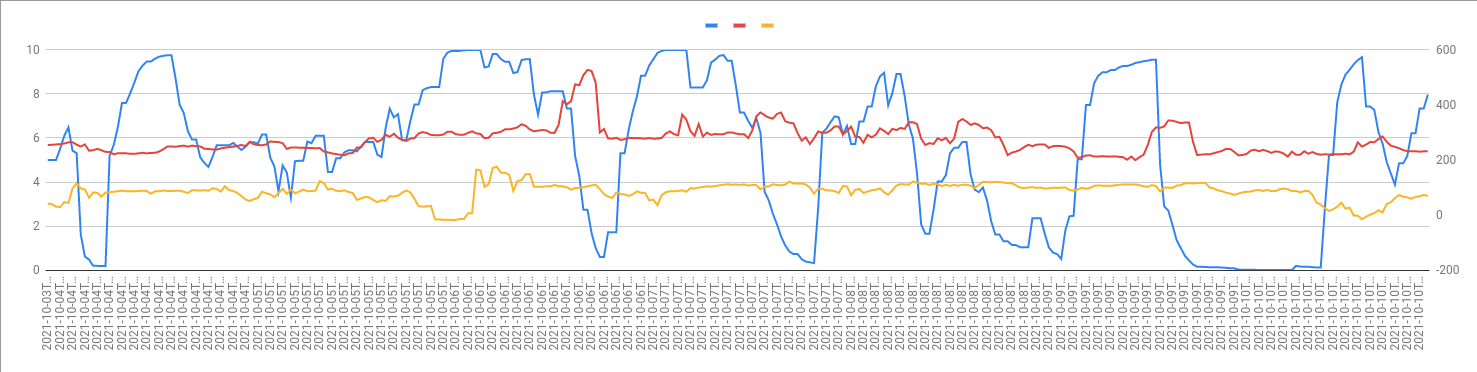
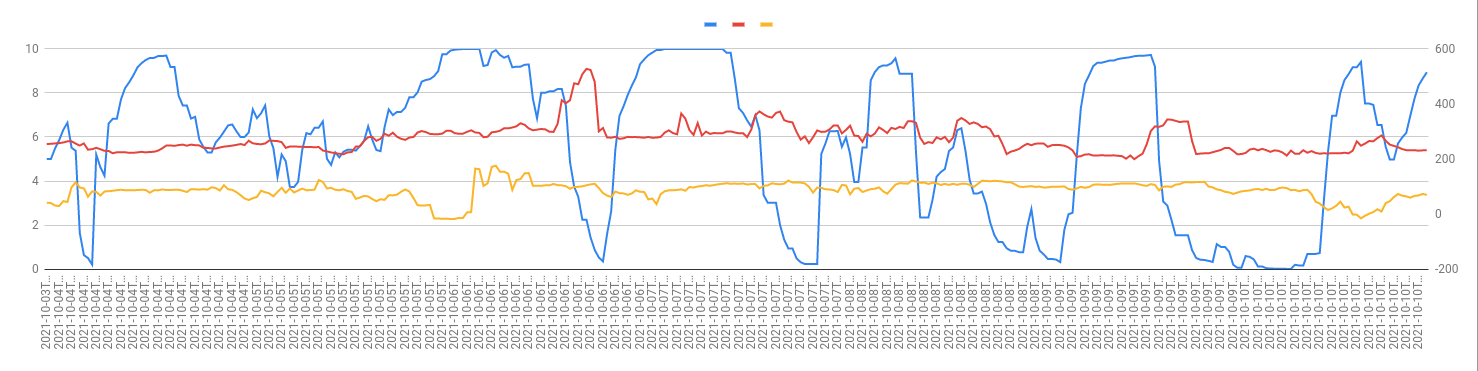
fix algorithm

diff --git a/services/optimiser/src/logic.ts b/services/optimiser/src/logic.ts
@@ -1,4 +1,4 @@
-import {addHours, isBefore, startOfDay} from 'date-fns';
+import {addHours, isBefore, startOfDay, isSameDay} from 'date-fns';
 import * as battery from './api/battery';
 import * as market from './api/market';
 import * as predictions from './api/predictions';
@@ -32,16 +32,18 @@ export const step = async (simStart: Date, time: Date) => {
   const nextPeriod = addHours(time, 1);
   const nextPeriodPrices = predictedPrices[nextPeriod.toISOString()]!;
 
-  const throughputForPeriodDay = await battery.getThroughputBetween(
+  const throughputOnDayOfNextPeriod = await battery.getThroughputBetween(
     startOfDay(nextPeriod),
     nextPeriod,
   );
 
-  const futureObligations = await obligationsDb.getNextObligations(time);
+  const futureObligations = await obligationsDb.getFutureObligations(time);
   const obligatedSoc = calcFutureBatteryState(batterySoc, futureObligations);
-  const obligatedThroughput = calcObglibatedThroughput(
-    throughputForPeriodDay,
-    futureObligations,
+  const obligatedThroughputOnDayOfPeriod = calcObglibatedThroughput(
+    throughputOnDayOfNextPeriod,
+    futureObligations.filter((obligation) =>
+      isSameDay(obligation.settlementPeriodStartDate, nextPeriod),
+    ),
   );
 
   const nextCharge = calculateDesiredVolumeChangeForPeriod(
@@ -49,7 +51,7 @@ export const step = async (simStart: Date, time: Date) => {
     obligatedSoc,
     predictedPrices,
     nextPeriodPrices,
-    obligatedThroughput,
+    obligatedThroughputOnDayOfPeriod,
   );
 
   const offer =
@@ -81,7 +83,8 @@ export const step = async (simStart: Date, time: Date) => {
   });
 
   if (succesfulSubmission) {
-    await obligationsDb.recordObligation(nextPeriod, {
+    await obligationsDb.recordObligation({
+      settlementPeriodStartDate: nextPeriod,
       type: nextCharge > 0 ? 'charge' : 'discharge',
       volume: Math.abs(nextCharge),
     });

diff --git a/services/optimiser/src/db/obligations.spec.ts b/services/optimiser/src/db/obligations.spec.ts
@@ -1,14 +1,19 @@
 import {
-  getNextObligations,
+  getFutureObligations,
   getObligation,
   recordObligation,
 } from './obligations';
 
 describe('Obligations DB', () => {
   it('should return any recorded obligations for the given settlement period', async () => {
-    await recordObligation(new Date(1), {type: 'charge', volume: 5});
+    await recordObligation({
+      settlementPeriodStartDate: new Date(1),
+      type: 'charge',
+      volume: 5,
+    });
 
     await expect(getObligation(new Date(1))).resolves.toEqual({
+      settlementPeriodStartDate: new Date(1),
       type: 'charge',
       volume: 5,
     });
@@ -17,13 +22,25 @@ describe('Obligations DB', () => {
   });
 
   it('should return the future obligations given the current settlement period', async () => {
-    await recordObligation(new Date(3), {type: 'charge', volume: 3.4});
-    await recordObligation(new Date(4), {type: 'charge', volume: 5});
-    await recordObligation(new Date(5), {type: 'discharge', volume: 10});
+    await recordObligation({
+      settlementPeriodStartDate: new Date(3),
+      type: 'charge',
+      volume: 3.4,
+    });
+    await recordObligation({
+      settlementPeriodStartDate: new Date(4),
+      type: 'charge',
+      volume: 5,
+    });
+    await recordObligation({
+      settlementPeriodStartDate: new Date(5),
+      type: 'discharge',
+      volume: 10,
+    });
 
-    await expect(getNextObligations(new Date(3))).resolves.toEqual([
-      {type: 'charge', volume: 5},
-      {type: 'discharge', volume: 10},
+    await expect(getFutureObligations(new Date(3))).resolves.toEqual([
+      {settlementPeriodStartDate: new Date(4), type: 'charge', volume: 5},
+      {settlementPeriodStartDate: new Date(5), type: 'discharge', volume: 10},
     ]);
   });
 });

diff --git a/services/optimiser/src/db/obligations.ts b/services/optimiser/src/db/obligations.ts
@@ -4,30 +4,35 @@
  **/
 
 // We are going to assume it's not possible for us to both charge and discharge in a given period
-export type Obligation = {type: 'charge' | 'discharge'; volume: number};
+export type Obligation = {
+  settlementPeriodStartDate: Date;
+  type: 'charge' | 'discharge';
+  volume: number;
+};
 
-const obligations: Array<{period: Date; obligation: Obligation | undefined}> =
-  [];
+const obligations: Obligation[] = [];
 
 export const recordObligation = async (
-  settlementPeriodStartDate: Date,
   obligation: Obligation,
 ): Promise<void> => {
-  obligations.push({period: settlementPeriodStartDate, obligation});
+  obligations.push(obligation);
 };
 
 export const getObligation = async (
   settlementPeriodStartDate: Date,
 ): Promise<Obligation | undefined> => {
   return obligations.find(
-    ({period}) => period.getTime() === settlementPeriodStartDate.getTime(),
-  )?.obligation;
+    (obligation) =>
+      obligation.settlementPeriodStartDate.getTime() ===
+      settlementPeriodStartDate.getTime(),
+  );
 };
 
-export const getNextObligations = async (from: Date): Promise<Obligation[]> => {
-  return obligations
-    .filter(
-      ({period, obligation}) => obligation && period.getTime() > from.getTime(),
-    )
-    .map(({obligation}) => obligation) as Obligation[];
+export const getFutureObligations = async (
+  from: Date,
+): Promise<Obligation[]> => {
+  return obligations.filter(
+    (obligation) =>
+      obligation.settlementPeriodStartDate.getTime() > from.getTime(),
+  );
 };

diff --git a/services/optimiser/parse-output-data.js b/services/optimiser/parse-output-data.js
@@ -14,7 +14,7 @@ fs.writeFileSync(
   data
     .map(
       (row) =>
-        `${row.currentSoc},${row.prices.offer},${row.prices.bid},${row.time}`,
+        `${row.currentSoc},${row.nextPeriodPrices.offer},${row.nextPeriodPrices.bid},${row.time}`,
     )
     .join('\n'),
 );

diff --git a/README.md b/README.md
@@ -53,25 +53,36 @@ In order to keep things simple and predictable, I used an algorithm which looks 
 and decides if the current price is best to sell or buy. It does this by creating a sell and buy factor, based on the battery SOC, the
 amount of cycles left for the day, the current price compared to highest and lowest in the foward planning period.
 
-Overall, it works out pretty well, and visualising the output data on graphs shows how the buy and sell prices (yellow and red lines)
-relfect the battery SOC when configured with different forward planning periods.
+Overall, it works out pretty well, and visualising the output data on graphs shows how the buy and sell prices of the period we are about to bid on
+(yellow and red lines) reflect the battery SOC when configured with different forward planning periods.
 
-#### 12 hours
+The lower the forward planning period, the higher the utilisation of the battery asset
+
+- ~115Mwh import and export for 3 hour
+- ~65Mwh import and export for 24 hour
+
+#### 24 hour analysis window
+
+<p align="center">
+  <img src="./media/graphs/24-hours.png">
+</p>
+
+#### 12 hour analysis window
 
 <p align="center">
   <img src="./media/graphs/12-hours.png">
 </p>
 
-#### 6 hours
+#### 6 hour analysis window
 
 <p align="center">
   <img src="./media/graphs/6-hours.png">
 </p>
 
-#### 2 hours
+#### 3 hour analysis window
 
 <p align="center">
-  <img src="./media/graphs/2-hours.png">
+  <img src="./media/graphs/3-hours.png">
 </p>
 
 ### Language
